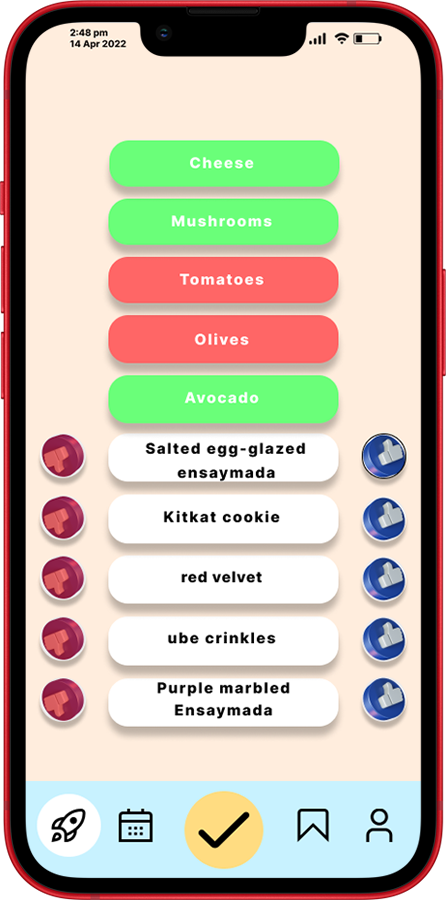
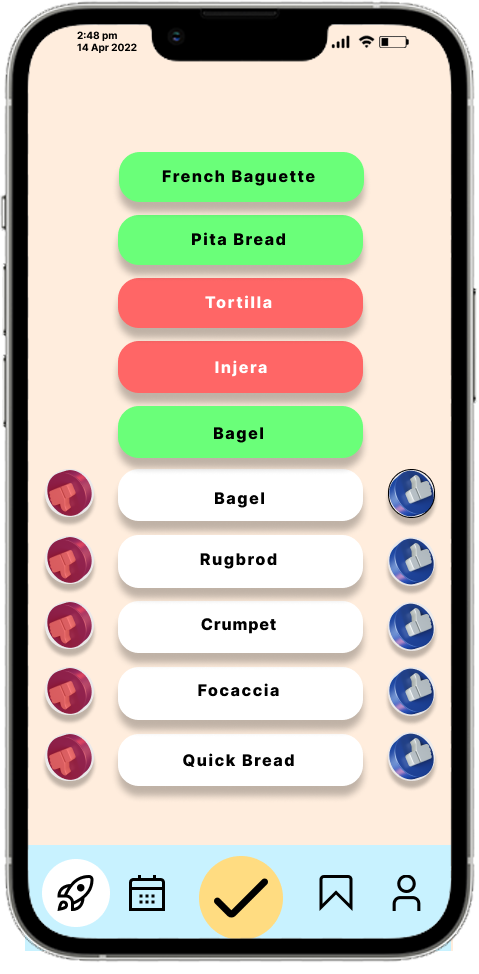
added new images and replaced codes in html

diff --git a/index.html b/index.html
@@ -16,11 +16,11 @@
             <link href="https://fonts.googleapis.com/css2?family=Lato:ital,wght@0,100;0,300;0,400;0,700;0,900;1,100;1,300;1,400;1,700;1,900&family=Outfit&display=swap" rel="stylesheet">
             <script type="module" src="https://unpkg.com/ionicons@5.5.2/dist/ionicons/ionicons.esm.js"></script>
             <script nomodule src="https://unpkg.com/ionicons@5.5.2/dist/ionicons/ionicons.js"></script>
-            <title>baked_by_mela</title>
+            <title>Dela Fortuna</title>
         </head>
     <body>
           <header>
-            <a href="#"><img class="logo" src="/new images/logos/baked-logos_white.png"></a>
+            <a href="#" class="logo-link"><h1 class="logo">Dela Fortuna</h1><h4 class="logo-text">bread and pastries</h4></a>
             <nav class="main-nav">
                 <ul class="main-nav-list">
                     <li><a href="#">Home</a></li>
@@ -37,10 +37,10 @@
                 <div class="hero">
                     <div class="hero-text-box">
                         <h1 class="heading-primary">
-                            goodies, made fresh for you! 
+                          freshly made delights for you!
                         </h1>
                         <p class="hero-description">
-                            Dedicated to making home baked goods from our oven straight to your door steps every single day.
+                          Every day, we are committed to providing freshly made products from our oven to your door.
                         </p>
                         <a href="#" class="btn btn-full">Start eating well</a>
                         <a href="#" class="btn btn-outline">Learn More &rarr;</a> 
@@ -53,11 +53,11 @@
                                 <img class="customer5" src="img\customers\customer img-5.jpg" alt="Customer photo">
                                 <img class="customer6" src="img\customers\customer img-6.jpg" alt="Customer photo">
                             </div>
-                            <p class="delivered-text">We have delivered <span>1,000+</span> boxes last year!</p>
+                            <p class="delivered-text">We have delivered <span>300,000+</span> bread and pastries!</p>
                         </div>
                     </div>
                     <div class="hero-img-box">
-                        <img class="hero-img" src="/img/breads/bgphoto.jpg" alt="bread photo">
+                        <img class="hero-img" src="/img/bread-img/background.jpg" alt="bread photo">
                     </div>
                 </div>
             </section>
@@ -75,8 +75,8 @@
  <!--How  -->
             <section class="section_How grid">
               <div class="container">
-                <span class="subheading subH"><p>Breads</p></span>
-                <h2 class="heading-secondary">Baked by Mela chooses from 5,000+ recipes<h2>
+                <span class="subheading subH"><p>Bread and Pastries</p></span>
+                <h2 class="heading-secondary">Dela Fortuna offers from a choice of over 100 distinct breads.<h2>
               </div>
               <div class="container grid grid--2-cols grid--center-v">
                 <div class="step-text-box flex-center-center flex-column">
@@ -87,7 +87,7 @@
                   </h3>
                   <p class="step-description">
                     Never again waste time thinking about what to eat!
-                    baked. AI will create a 100% personalized 
+                    Dela Fortuna. AI will create a 100% personalized 
                     weekly meal plan just for you. It makes sure you. It makes sure you
                     get all the nutrients and vitamins you need, no
                     matter what diet you follow!
@@ -108,7 +108,7 @@
                     Approve your weekly plan
                   </h3>
                   <p class="step-description">
-                    Approve your baked by mela AI bread plan once a week. You can alter the ingredients, 
+                    Approve your bread and pastries by Dela Fortuna AI bread plan once a week. You can alter the ingredients, 
                     swap out whole loaves of bread, and even add your own recipes.
                   </p>
                 </div>
@@ -135,19 +135,19 @@
             <section class="section_Bread">
                 <div class="container">
                   <span class="subheading subH"><p>Breads</p></span>
-                  <h2 class="heading-secondary">Mela's Baked features almost 100 bread recipes.</h2>
+                  <h2 class="heading-secondary">Dela Fortuna Bread and Pastries features almost 100 bread recipes.</h2>
                 </div>
               <div class="container grid grid--3-cols margin-bottom-md">
                 <div class="bread">
                     <img 
-                    src="/img/breads/saltedeggglazedensaymada.jpg" 
-                    alt="cheese ensaymada" 
+                    src="/img/bread-img/bread-1-cheese.PNG" 
+                    alt="cheese bread" 
                     class="bread-img">
                   <div class="bread-content">
                     <div class="bread-tags">
                       <span class="tag tag--cheese">Cheese</span>
                     </div>
-                      <p class="bread-title">Salted egg-glazed ensaymada</p>
+                      <p class="bread-title">Cheesy Garlic Bread</p>
                       <ul class="bread-attributes">
                         <li class="bread-attribute">
                           <ion-icon name="flame-outline" class="bread-icon"></ion-icon>
@@ -162,14 +162,14 @@
                  </div>
                  <div class="bread">
                   <img 
-                  src="/img/breads/chococrinkles.jpg" 
+                  src="/img/bread-img/bread-2-choco-crinkles.PNG" 
                   alt="cheese ensaymada" 
                   class="bread-img">
                 <div class="bread-content">
                   <div class="bread-tags">
                     <span class="tag tag--choco">Chocolate</span>
                   </div>
-                    <p class="bread-title">Choco Crinkles</p>
+                    <p class="bread-title">Choco crinkles </p>
                     <ul class="bread-attributes">
                       <li class="bread-attribute">
                         <ion-icon name="flame-outline" class="bread-icon"></ion-icon>
@@ -184,7 +184,7 @@
                </div>
                 <!-- LIST -->
                 <div class="list-recipe">
-                  <h3 class="heading-tertiary">Baked by Mela</h3>
+                  <h3 class="heading-tertiary">Dela Fortuna</h3>
                   <ul class="list">
                     <li class="list-item">
                       <ion-icon class="list-icon" name="checkmark-done-outline"></ion-icon>
@@ -239,7 +239,7 @@
                 <figure class="testimonial">
                   <img src="/img/testimonials/customer2.jpg" class="testimonial-img" alt="Photo of Alden">
                   <blockquote class="testimonial-text">
-                    first time to order baked goodies and overall,
+                    first time to order Dela Fortuna goodies and overall,
                     I'm super satisfied! I love the chewy chocolate crinkles
                     and ube ensaymada so much, will try other variants
                     next time! super yummy and worth the price
@@ -272,64 +272,66 @@
               <div class="gallery">
                 <figure class="gallery-item">
                   <img 
-                  src="/img/gallery/sample.png"
+                  src="/img/bread-img/gallery/21.png"
+                  alt="Photo">
+                </figure>
+
+                <figure class="gallery-item">
+                  <img 
+                        src="/img/bread-img/gallery/22.png"
                   alt="Photo">
                 </figure>
                 <figure class="gallery-item">
                   <img 
-                  src="/img/gallery/sample.png"
+                       src="/img/bread-img/gallery/23.png"
                   alt="Photo">
                 </figure>
                 <figure class="gallery-item">
                   <img 
-                  src="/img/gallery/sample.png"
+                        src="/img/bread-img/gallery/24.png"
                   alt="Photo">
                 </figure>
                 <figure class="gallery-item">
                   <img 
-                  src="/img/gallery/sample.png"
+                          src="/img/bread-img/gallery/25.png"
                   alt="Photo">
                 </figure>
                 <figure class="gallery-item">
                   <img 
-                  src="/img/gallery/sample.png"
+                         src="/img/bread-img/gallery/26.png"
                   alt="Photo">
                 </figure>
                 <figure class="gallery-item">
                   <img 
-                  src="/img/gallery/sample.png"
+                         src="/img/bread-img/gallery/27.png"
                   alt="Photo">
                 </figure>
                 <figure class="gallery-item">
                   <img 
-                  src="/img/gallery/sample.png"
+                          src="/img/bread-img/gallery/28.png"
                   alt="Photo">
                 </figure>
                 <figure class="gallery-item">
                   <img 
-                  src="/img/gallery/sample.png"
+                              src="/img/bread-img/gallery/29.png"
                   alt="Photo">
                 </figure>
                 <figure class="gallery-item">
                   <img 
-                  src="/img/gallery/sample.png"
+                           src="/img/bread-img/gallery/30.png"
                   alt="Photo">
                 </figure>
                 <figure class="gallery-item">
                   <img 
-                  src="/img/gallery/sample.png"
+                           src="/img/bread-img/gallery/31.png"
                   alt="Photo">
                 </figure>
                 <figure class="gallery-item">
                   <img 
-                  src="/img/gallery/sample.png"
+                           src="/img/bread-img/gallery/32.png"
                   alt="Photo">
                 </figure>
-                <figure class="gallery-item">
-                  <img 
-                  src="/img/gallery/sample.png"
-                  alt="Photo">
-                </figure>
+                
               </div>
             </section>
 <!-- Pricing -->
@@ -341,8 +343,8 @@
               <div class="container grid grid--2-cols margin-bottom-md">
                 <div class="pricing-plan pricing-plan--starter">
                   <p class="plan-name">Starter</p>
-                  <p class="plan-price"><span>$</span>350</p>
-                  <p class="plan-text">per month. That's just $11.66 per bread</p>
+                  <p class="plan-price"><span>$</span>$$$</p>
+                  <p class="plan-text">per month. That's just $ per bread</p>
                   <ul class="list">
                     <li class="list-item">
                       <ion-icon class="list-icon" name="checkmark-done-outline"></ion-icon>
@@ -367,8 +369,8 @@
                 </div>
                 <div class="pricing-plan pricing-plan--complete">
                   <p class="plan-name">Complete</p>
-                  <p class="plan-price"><span>$</span>649</p>
-                  <p class="plan-text">per month. That's just $10..81 per bread</p>
+                  <p class="plan-price"><span>$</span>$$$</p>
+                  <p class="plan-text">per month. That's just $ per bread</p>
                   <ul class="list">
                     <li class="list-item">
                       <ion-icon class="list-icon" name="checkmark-done-outline"></ion-icon>
@@ -472,18 +474,18 @@
                         <a><ion-icon name="logo-twitter" class="social-account-icon"></ion-icon></a>
                       </li>
                     </ul>
-                    <p class="copyright"><b>Copyright</b> &copy; 2027 by bakedbymela,
+                    <p class="copyright"><b>Copyright</b> &copy; 2027 by Dela Fortuna,
                       Inc. All rights reserved.
                     </p>
                   </div>
                   <div class="address-col">
                     <p class="footer-heading">Contact us</p>
                     <address class="contacts">
-                      <p>Calbiga (6715), Samar</p>
+                      <p>Namek (6715), Mars</p>
                       <p>
                         <a href="tel:135-121-0998">135-121-0998</a>
                         <br>
-                        <a href="jomari:hello@bakedbymela.com">hello@bakedbymela.com</a>
+                        <a href="jomari:hello@delafortuna.com">hello@delafortuna.com</a>
                       </p>
                     </address>
                   </div>
@@ -499,7 +501,7 @@
                   <nav class="nav-col">
                     <p class="footer-heading">Company</p>
                     <ul class="footer-nav">
-                      <li><a class="footer-link" href="">baked.</a></li>
+                      <li><a class="footer-link" href="">Dela Fortuna</a></li>
                       <li><a class="footer-link" href="">For Business     </a></li>
                       <li><a class="footer-link" href="">Cooking Partners </a></li>
                       <li><a class="footer-link" href="">Careers          </a></li>

diff --git a/css/style.css b/css/style.css
@@ -258,8 +258,25 @@ header{
     background-color: #333333;
 
 }
+.logo-link{
+    display: flex;
+    justify-content: center;
+    align-items: center;
+    flex-direction: column;
+    text-decoration: none;
+}
+.logo-text{
+    /* align-self: flex-start; */
+    margin-left: 2rem;
+    color: #fff;
+    font-weight: 500;
+    letter-spacing: 2px;
+}
+
 .logo{
   width: 150px;
+  padding: 1rem;
+  color: #fff;
 }
 .logo a{
     color: #cccccc;
